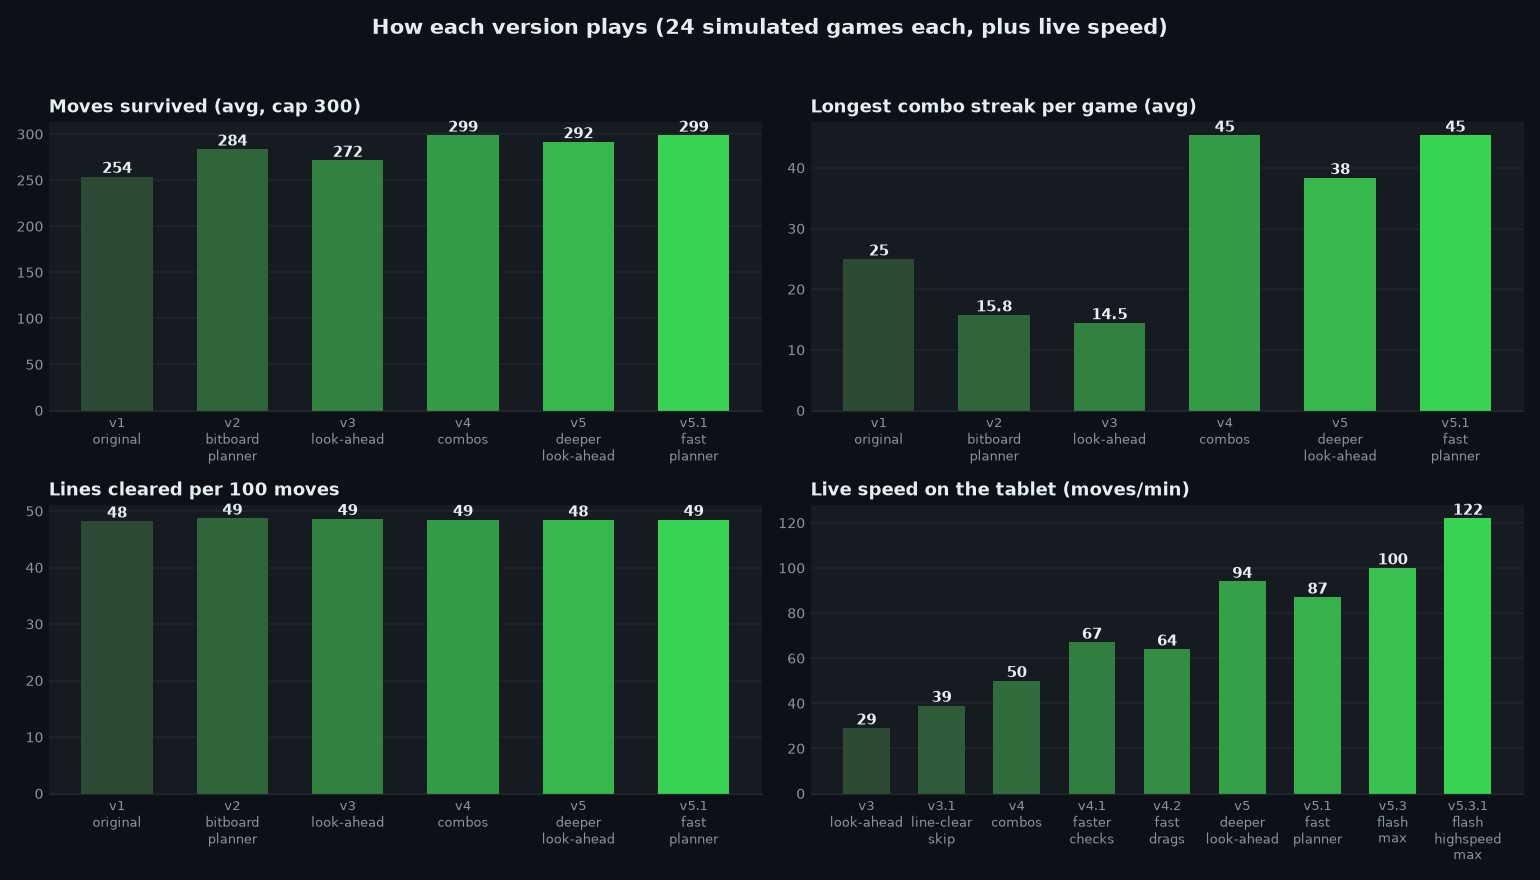
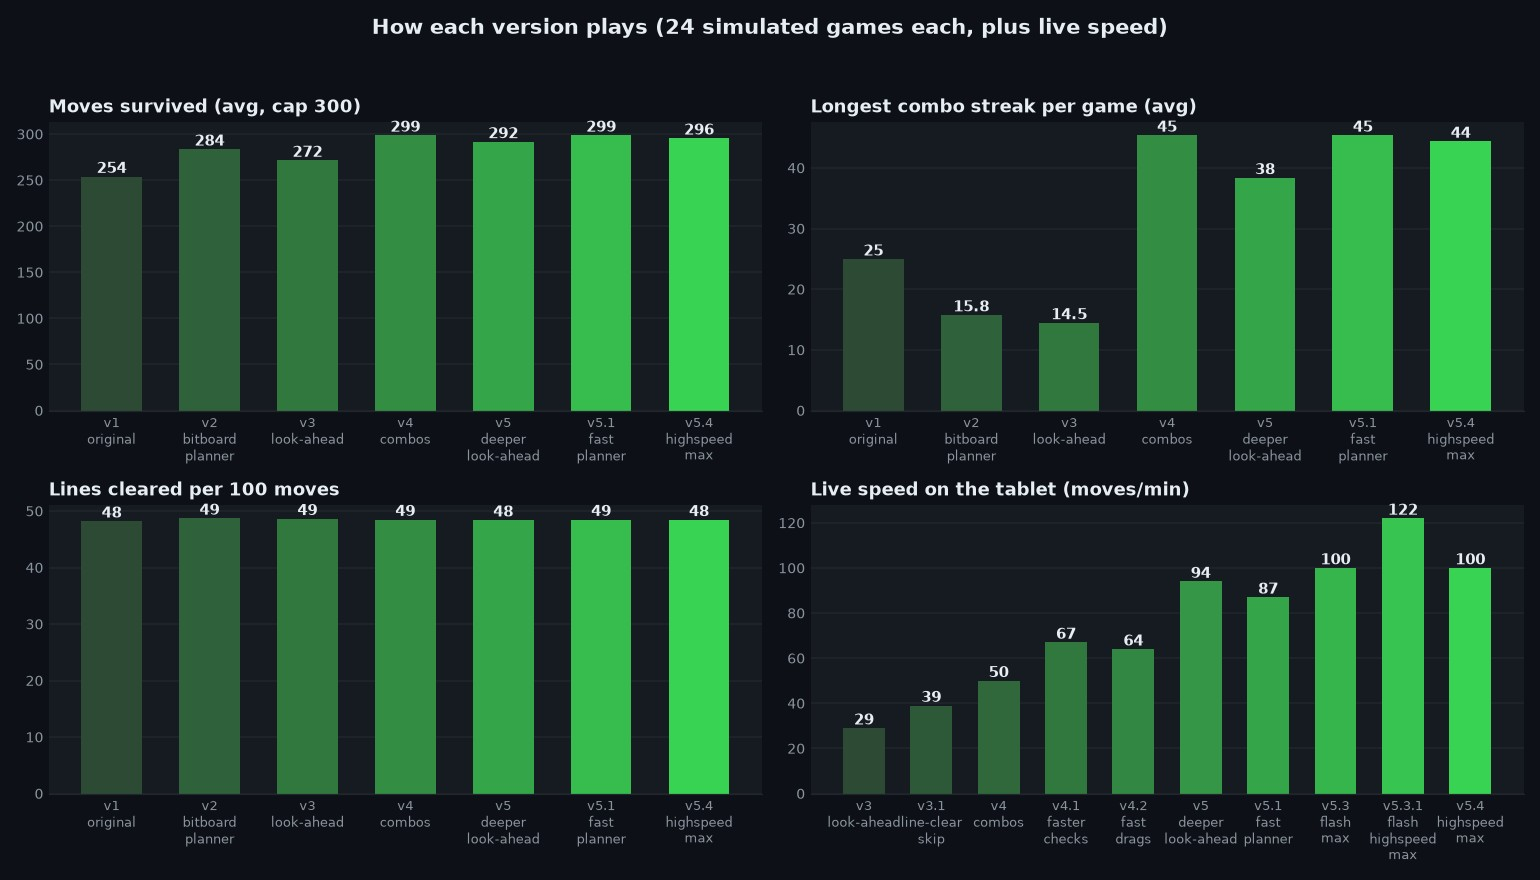
Release v5.4-highspeed-max: benchmark chart, README and notes

diff --git a/bench.py b/bench.py
@@ -28,6 +28,7 @@ VERSIONS = [
     ('v4 combos', 'f28798f', 'combo'),
     ('v5 deeper look-ahead', '698ad26', 'combo'),
     ('v5.1 fast planner', 'f16d74a', 'combo'),
+    ('v5.4 highspeed max', '85fa355', 'combo'),
 ]
 # Measured on the tablet (moves/min from bot.log over 100+ moves). None = not measured.
 LIVE_SPEED = {'v1 original': None, 'v2 bitboard planner': None, 'v3 look-ahead': 29,
@@ -35,7 +36,8 @@ LIVE_SPEED = {'v1 original': None, 'v2 bitboard planner': None, 'v3 look-ahead':
               'v4.1 faster checks': 67, 'v4.2 fast drags': 64,
               'v5 deeper look-ahead': 94, 'v5.1 fast planner': 87,
               'v5.3 flash max': 100,
-              'v5.3.1 flash highspeed max': 122}
+              'v5.3.1 flash highspeed max': 122,
+              'v5.4 highspeed max': 100}
 
 WINDOW = current.COMBO_WINDOW
 

diff --git a/CLAUDE.md b/CLAUDE.md
@@ -17,7 +17,8 @@ Plays Block Blast (Classic) on a USB-connected Android tablet (2880x1800 landsca
 - If "no legal moves" lasts 30 s without a result screen, the screen is misread: it is saved and normal recovery runs. Any exception is logged and the loop restarts after `adb wait-for-device`.
 - New tray pieces animate in; the bot only plans from two consecutive screenshots that agree.
 - All coordinates assume the game fills the full 1800 px height. With the tablet's 3-button navigation bar on, the app gets 1682 px and the game shrinks around x=1440; `update_layout` reads `mAppBounds` from `dumpsys window displays` (at startup and on recovery), `capture` scales screenshots back, and `tap`/`drag_piece` scale input with `to_screen`.
-- Released version: **v5.3.1-flash-highspeed-max** (~122 moves/min); v5.3-exp-flash-max is in `versions/`. Each tray's pieces are swiped back to back (80 ms drags) with no check screenshot; the screenshot that reads the next tray also checks the board. Board check: cells still clearing (`clears`, 2.5 s) are ignored; a block the screen shows empty is removed at once (text can't make a filled cell look empty); extra blocks are added only when no clear happened in the last 1.5 s, because combo text is drawn in flat letters that read as blocks and can outlast a 1.2 s tray. A learned `deal_wait` after a tray's last piece lets one screenshot usually find the new tray. A missed drop shows up as the same position again (`repeat`): that tray is dragged slowly and checked. Drag speed was tested: board corrections happen at the same rate at 100 and 150 ms, so they come from reading, not drags. The `Planned` log line shows screenshots per tray and why extra ones were needed.
+- Released version: **v5.4-highspeed-max** (~100 moves/min); earlier versions are in `versions/`. It is v5.3.1 (below) plus danger mode: when a tray leaves `DANGER_FROM`=28+ cells filled, the planner's look-ahead uses 48 future trays x 16 candidates (`danger_from` in `planner.plan`) and the tray's last piece gets a real check screenshot. A board check that differs by 4+ cells drops the bot's picture and reads the board from two agreeing screenshots (fast-mode drift had ended games with half the board empty in the bot's picture). Goal set by the user: beat the best score of 809,192 while staying fast; not yet proven in a full game.
+- v5.3.1-flash-highspeed-max (~122 moves/min, in `versions/`): Each tray's pieces are swiped back to back (80 ms drags) with no check screenshot; the screenshot that reads the next tray also checks the board. Board check: cells still clearing (`clears`, 2.5 s) are ignored; a block the screen shows empty is removed at once (text can't make a filled cell look empty); extra blocks are added only when no clear happened in the last 1.5 s, because combo text is drawn in flat letters that read as blocks and can outlast a 1.2 s tray. A learned `deal_wait` after a tray's last piece lets one screenshot usually find the new tray. A missed drop shows up as the same position again (`repeat`): that tray is dragged slowly and checked. Drag speed was tested: board corrections happen at the same rate at 100 and 150 ms, so they come from reading, not drags. The `Planned` log line shows screenshots per tray and why extra ones were needed.
 - Speed (v4.1, ~67 moves/min): swipes go through one long-lived `adb shell` (`SHELL`), so they cost ~1 ms of overhead instead of ~50 ms. Combo pop-up text covers some cells; `visible_board`/`shows` compare only the flat (visible) cells, so these frames aren't treated as off-board (`e` in the trace = matched with some cells hidden). There are no fixed sleeps on the normal path; a screenshot (~0.4 s) is the only wait. Swipes are 150 ms (`--swipe-ms`). A full new tray at rest (`at_rest`, `REST_Y`/`REST_DX`) on the predicted board is planned from one screenshot. Two screenshots can't overlap: the tablet takes them one at a time (tried, slower). Tray readings that aren't a real piece shape (`KNOWN_SHAPES`, e.g. wood grain adding cells) are retried at other thresholds. The user chose this over 200 ms knowingly: 150 ms sometimes misses a drop (retried, then recalibrated), 200 ms didn't, but 150 is noticeably faster. Don't change it back without asking.
 - Planner speed: `fast_eval`/`drop` use bit operations (no loops over positions); the look-ahead (`_survival`) runs in worker processes (`planner.use_workers`, started in `bot.py` `__main__` only with `--play`). ~0.08 s per tray with 32 future trays x 14 candidates. Windows needs the `__main__` guard for workers.
 - Missed drops: two unchanged screenshots = unplaced (not a 3 s timeout). Retry order: same target at `RETRY_MS`, then one-cell shifts. A fast miss sets `slow_from`: drags at least that long use `SAFE_MS`.

diff --git a/README.md b/README.md
@@ -23,6 +23,7 @@ Every planner version plays the same simulated games (`python bench.py`); live s
 | v5.1 fast planner | Back to the lighter look-ahead (16 future trays; the deeper one wasn't clearly better) with work spread evenly over the CPU cores: planning ~0.03 s per tray. Also handles the blue bevelled theme and size changes between menu and board. Live 87/min was measured over 865 moves (a longer run than v5's 302 early-game moves), median tray 100/min. |
 | v5.3 flash max | Same planner as v5.1. No check screenshot after each tray (the next tray's screenshot confirms the board), learned wait for the game to deal the next tray, 120 ms drags. 100 moves/min over 302 live moves (median tray 1.3 s). Trade-off: its picture of the board can drift without the per-tray check; one game ended earlier than it should have because of that. |
 | v5.3.1 flash highspeed max | Same planner. Stricter board check from the screenshot it already takes: a block the screen shows empty is removed at once; extra blocks are added only when nothing is animating (combo text is drawn in flat letters that look like blocks). Fewer re-reads, so most trays need one screenshot. 80 ms drags. 122 moves/min over 301 live moves (average tray 1.41 s), no missed drops. |
+| v5.4 highspeed max | Fast like v5.3.1 while the board is open; careful when it is crowded (28+ cells after a tray): a deeper look-ahead (48 future trays) and a real check screenshot. A board that looks very different from the bot's picture is read carefully before planning. On 20 long games (up to 600 moves) it survived 494 moves vs v5.1's 466 and was never worse; on the chart's 24 shorter games it is about even with v5.1 (296 vs 299). ~100 moves/min live. |
 
 ## How it works
 
